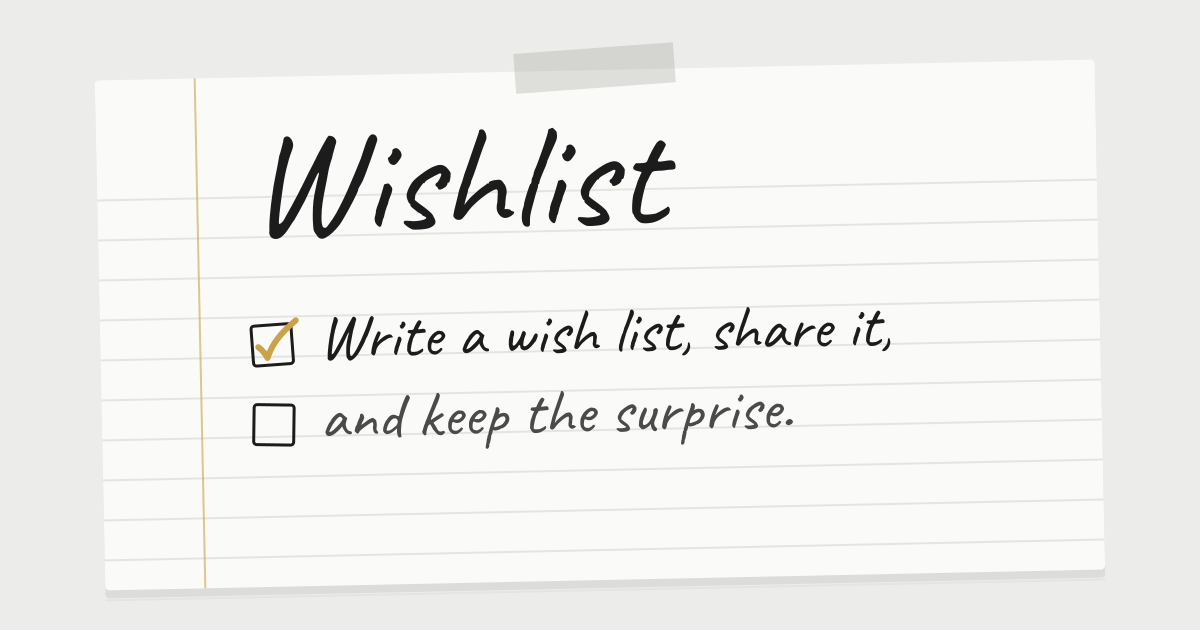
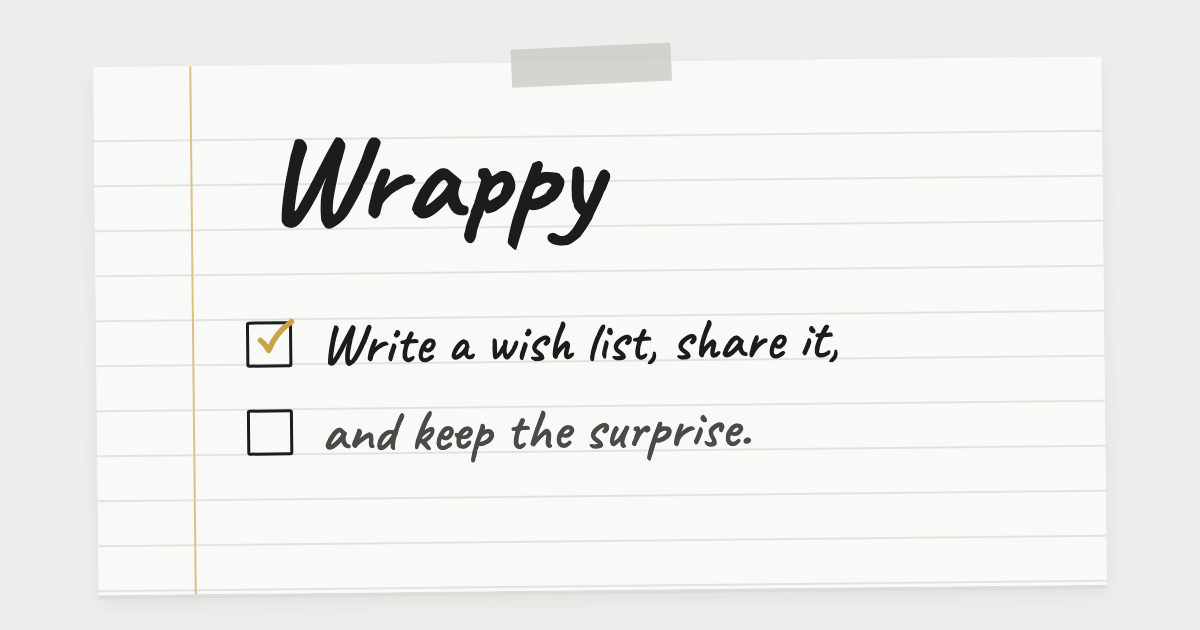
Rename the project to Wrappy (wrappy.gift)
Replace the Wishlist name across the app, emails, page titles, logo,
share image, design handoff and dev config, and point docs at
wrappy.gift. Generic uses of "wishlist" are left as they were, and
the username "wishlist" stays reserved alongside "wrappy".

diff --git a/src/lib/server/email.test.ts b/src/lib/server/email.test.ts
@@ -36,7 +36,7 @@ const resendBody = () => JSON.parse(fetchMock.mock.calls[0][1].body);
 
 describe('Resend delivery', () => {
 	it('posts to the Resend API with the key and sender', async () => {
-		const m = await load({ RESEND_API_KEY: 're_test', EMAIL_FROM: 'Wishlist <hi@example.test>', SMTP_HOST: 'smtp.example' });
+		const m = await load({ RESEND_API_KEY: 're_test', EMAIL_FROM: 'Wrappy <hi@example.test>', SMTP_HOST: 'smtp.example' });
 		await m.sendOtpEmail({ email: 'a@example.test', otp: '123456', type: 'sign-in' });
 		expect(fetchMock).toHaveBeenCalledTimes(1);
 		const [url, init] = fetchMock.mock.calls[0];
@@ -44,7 +44,7 @@ describe('Resend delivery', () => {
 		expect(init.method).toBe('POST');
 		expect(init.headers).toMatchObject({ authorization: 'Bearer re_test', 'content-type': 'application/json' });
 		const body = resendBody();
-		expect(body).toMatchObject({ from: 'Wishlist <hi@example.test>', to: ['a@example.test'], subject: 'Your Wishlist sign-in code' });
+		expect(body).toMatchObject({ from: 'Wrappy <hi@example.test>', to: ['a@example.test'], subject: 'Your Wrappy sign-in code' });
 		expect(body.html).toContain('123456');
 		expect(body.text).toContain('Your code is 123456');
 		// Resend wins over SMTP.
@@ -54,7 +54,7 @@ describe('Resend delivery', () => {
 	it('uses a default sender when EMAIL_FROM is unset', async () => {
 		const m = await load({ RESEND_API_KEY: 're_test' });
 		await m.sendOtpEmail({ email: 'a@example.test', otp: '1', type: 'sign-in' });
-		expect(resendBody().from).toBe('Wishlist <no-reply@wishlist.local>');
+		expect(resendBody().from).toBe('Wrappy <no-reply@wrappy.gift>');
 	});
 
 	it('throws with the status and body when Resend refuses', async () => {
@@ -72,7 +72,7 @@ describe('SMTP delivery', () => {
 		await m.sendOtpEmail({ email: 'b@example.test', otp: '654321', type: 'email-verification' });
 		expect(createTransport).toHaveBeenCalledWith({ host: 'smtp.example', port: 2525, secure: true, auth: { user: 'u', pass: 'p' } });
 		expect(sendMail).toHaveBeenCalledWith(
-			expect.objectContaining({ to: 'b@example.test', subject: 'Verify your email for Wishlist', from: 'Wishlist <no-reply@wishlist.local>' })
+			expect.objectContaining({ to: 'b@example.test', subject: 'Verify your email for Wrappy', from: 'Wrappy <no-reply@wrappy.gift>' })
 		);
 		expect(fetchMock).not.toHaveBeenCalled();
 	});
@@ -108,7 +108,7 @@ describe('console fallback', () => {
 		const out = log.mock.calls.flat().join('\n');
 		expect(out).toContain('c@example.test');
 		expect(out).toContain('999000');
-		expect(out).toContain('Your Wishlist sign-in code');
+		expect(out).toContain('Your Wrappy sign-in code');
 	});
 });
 
@@ -120,10 +120,10 @@ describe('message content', () => {
 	}
 
 	it.each([
-		['sign-in', 'Your Wishlist sign-in code', 'Use this code to sign in to Wishlist.'],
-		['email-verification', 'Verify your email for Wishlist', 'Use this code to verify your email address.'],
-		['forget-password', 'Reset your Wishlist password', 'Use this code to reset your password.'],
-		['change-email', 'Confirm your new Wishlist email', 'Use this code to confirm your new email address.']
+		['sign-in', 'Your Wrappy sign-in code', 'Use this code to sign in to Wrappy.'],
+		['email-verification', 'Verify your email for Wrappy', 'Use this code to verify your email address.'],
+		['forget-password', 'Reset your Wrappy password', 'Use this code to reset your password.'],
+		['change-email', 'Confirm your new Wrappy email', 'Use this code to confirm your new email address.']
 	] as const)('OTP %s has the right subject and intro', async (type, subject, intro) => {
 		const b = await capture((m) => m.sendOtpEmail({ email: 'a@example.test', otp: '112233', type }));
 		expect(b.subject).toBe(subject);
@@ -138,17 +138,17 @@ describe('message content', () => {
 				email: 'friend@example.test',
 				ownerName: '<script>alert(1)</script>',
 				listTitle: `Tom & Jerry's "best"`,
-				url: 'https://wishlist.example/lists/abc?x=1&y="2"'
+				url: 'https://wrappy.example/lists/abc?x=1&y="2"'
 			})
 		);
 		expect(b.subject).toBe('<script>alert(1)</script> shared a wish list with you');
 		expect(b.html).not.toContain('<script>');
 		expect(b.html).toContain('&lt;script&gt;alert(1)&lt;/script&gt;');
 		expect(b.html).toContain('Tom &amp; Jerry&#39;s &quot;best&quot;');
-		expect(b.html).toContain('href="https://wishlist.example/lists/abc?x=1&amp;y=&quot;2&quot;"');
+		expect(b.html).toContain('href="https://wrappy.example/lists/abc?x=1&amp;y=&quot;2&quot;"');
 		// Plain text is not HTML-escaped.
 		expect(b.text).toContain(`"Tom & Jerry's "best""`);
-		expect(b.text).toContain('Open it: https://wishlist.example/lists/abc');
+		expect(b.text).toContain('Open it: https://wrappy.example/lists/abc');
 	});
 
 	it('escapes Secret Santa names and includes budget and date', async () => {
@@ -159,7 +159,7 @@ describe('message content', () => {
 				recipientName: 'Ann & Bob',
 				budget: '£20',
 				exchangeDate: '20 Dec',
-				url: 'https://wishlist.example/santa/x'
+				url: 'https://wrappy.example/santa/x'
 			})
 		);
 		expect(b.subject).toBe("Office <Party>: you're buying for Ann & Bob");
@@ -168,7 +168,7 @@ describe('message content', () => {
 		expect(b.html).not.toContain('<Party>');
 		expect(b.html).toContain('Budget £20 · swap on 20 Dec');
 		expect(b.text).toContain("You're buying for Ann & Bob.\nBudget £20 · swap on 20 Dec");
-		expect(b.text).toContain('See their list: https://wishlist.example/santa/x');
+		expect(b.text).toContain('See their list: https://wrappy.example/santa/x');
 	});
 
 	it('leaves out the budget line when there is no budget or date', async () => {
@@ -179,12 +179,12 @@ describe('message content', () => {
 				recipientName: 'Sam',
 				budget: null,
 				exchangeDate: null,
-				url: 'https://wishlist.example/santa/x'
+				url: 'https://wrappy.example/santa/x'
 			})
 		);
 		expect(b.html).not.toContain('Budget');
 		expect(b.html).not.toContain('swap on');
-		expect(b.text).toBe("Names have been drawn for Family.\n\nYou're buying for Sam.\n\nSee their list: https://wishlist.example/santa/x");
+		expect(b.text).toBe("Names have been drawn for Family.\n\nYou're buying for Sam.\n\nSee their list: https://wrappy.example/santa/x");
 	});
 
 	it('shows only the date when there is no budget', async () => {

diff --git a/src/lib/server/email.ts b/src/lib/server/email.ts
@@ -1,5 +1,5 @@
 /**
- * Email delivery for Wishlist.
+ * Email delivery for Wrappy.
  *
  * Delivery is chosen at runtime, in order:
  *   1. Resend API   — when RESEND_API_KEY is set (production).
@@ -16,21 +16,21 @@ interface OtpEmail {
 }
 
 const SUBJECTS: Record<OtpType, string> = {
-	'sign-in': 'Your Wishlist sign-in code',
-	'email-verification': 'Verify your email for Wishlist',
-	'forget-password': 'Reset your Wishlist password',
-	'change-email': 'Confirm your new Wishlist email'
+	'sign-in': 'Your Wrappy sign-in code',
+	'email-verification': 'Verify your email for Wrappy',
+	'forget-password': 'Reset your Wrappy password',
+	'change-email': 'Confirm your new Wrappy email'
 };
 
 const INTRO: Record<OtpType, string> = {
-	'sign-in': 'Use this code to sign in to Wishlist.',
+	'sign-in': 'Use this code to sign in to Wrappy.',
 	'email-verification': 'Use this code to verify your email address.',
 	'forget-password': 'Use this code to reset your password.',
 	'change-email': 'Use this code to confirm your new email address.'
 };
 
 export async function sendOtpEmail({ email, otp, type }: OtpEmail): Promise<void> {
-	const subject = SUBJECTS[type] ?? 'Your Wishlist code';
+	const subject = SUBJECTS[type] ?? 'Your Wrappy code';
 	const html = renderOtpHtml(otp, INTRO[type] ?? INTRO['sign-in']);
 	const text = `${INTRO[type] ?? ''}\n\nYour code is ${otp}\nIt expires in 10 minutes.\n\nIf you didn't request this, you can ignore this email.`;
 
@@ -95,7 +95,7 @@ interface ReminderBase {
 }
 
 function reminderFootnote(r: ReminderBase): string {
-	return `You're getting this because you use Wishlist. <a href="${escapeHtml(r.unsubscribeUrl)}" style="color:#5E5E5A;">Stop these reminders</a> or <a href="${escapeHtml(r.settingsUrl)}" style="color:#5E5E5A;">choose which emails you get</a>.`;
+	return `You're getting this because you use Wrappy. <a href="${escapeHtml(r.unsubscribeUrl)}" style="color:#5E5E5A;">Stop these reminders</a> or <a href="${escapeHtml(r.settingsUrl)}" style="color:#5E5E5A;">choose which emails you get</a>.`;
 }
 const reminderTextFooter = (r: ReminderBase) => `\n\n—\nStop these reminders: ${r.unsubscribeUrl}\nChoose which emails you get: ${r.settingsUrl}`;
 
@@ -162,7 +162,7 @@ export async function sendSantaReminderEmail(
 }
 
 async function deliver(msg: Omit<Message, 'from'>, consoleBody: string): Promise<void> {
-	const from = process.env.EMAIL_FROM || 'Wishlist <no-reply@wishlist.local>';
+	const from = process.env.EMAIL_FROM || 'Wrappy <no-reply@wrappy.gift>';
 	const full: Message = { from, ...msg };
 	if (process.env.RESEND_API_KEY) {
 		await sendViaResend(full);
@@ -257,7 +257,7 @@ function renderLayout(bodyHtml: string, actionHtml = "", footnote = ""): string 
 			<tr><td align="center">
 				<table role="presentation" width="100%" cellpadding="0" cellspacing="0" style="max-width:460px;background:#FAFAF8;border-radius:4px;border-left:2px solid #C9A24A;box-shadow:0 1px 2px rgba(0,0,0,.08),0 10px 24px rgba(0,0,0,.07);">
 					<tr><td style="padding:30px 32px 6px;">
-						<span style="font-family:Caveat,'Comic Sans MS',cursive;font-size:30px;font-weight:700;color:#1C1C1C;"><span style="color:#C9A24A;">&#10003;</span> wishlist</span>
+						<span style="font-family:Caveat,'Comic Sans MS',cursive;font-size:30px;font-weight:700;color:#1C1C1C;"><span style="color:#C9A24A;">&#10003;</span> wrappy</span>
 					</td></tr>
 					<tr><td style="padding:12px 32px 4px;font-size:15px;color:#4A4A4A;line-height:1.55;">${bodyHtml}</td></tr>
 					${actionHtml ? `<tr><td style="padding:20px 32px 8px;">${actionHtml}</td></tr>` : ""}

diff --git a/design/pages/landing.html b/design/pages/landing.html
@@ -3,7 +3,7 @@
 <head>
 <meta charset="utf-8">
 <meta name="viewport" content="width=device-width, initial-scale=1">
-<title>Wishful — landing page</title>
+<title>Wrappy — landing page</title>
 <link href="https://fonts.googleapis.com/css2?family=Caveat:wght@500;700&amp;family=Patrick+Hand&amp;family=Inter:wght@400;500;600&amp;display=swap" rel="stylesheet">
 <style>
 /* Notebook theme tokens — see DESIGN.md */
@@ -22,7 +22,7 @@ body{margin:0}a{color:inherit}
   <header style="max-width: 1200px; margin: 0 auto; padding: 24px 24px; display: flex; flex-wrap: wrap; align-items: center; justify-content: space-between; gap: 16px">
     <a href="landing.html" style="display: flex; align-items: center; gap: 8px; text-decoration: none; color: var(--ink)">
       <svg width="26" height="26" viewBox="0 0 24 24" fill="none" stroke="var(--gold)" stroke-width="2.6" stroke-linecap="round" stroke-linejoin="round" aria-hidden="true"><path d="M4 13c2 1.5 3.5 3.5 4.5 5.5C11 12 15 7 21 3"></path></svg>
-      <span style="font-family: 'Caveat', cursive; font-size: 34px; font-weight: 700; line-height: 1">wishful</span>
+      <span style="font-family: 'Caveat', cursive; font-size: 34px; font-weight: 700; line-height: 1">wrappy</span>
     </a>
     <nav style="display: flex; flex-wrap: wrap; align-items: center; gap: 8px 28px; font-size: 15px">
       <a href="#how" style="text-decoration: none; color: var(--ink2)">How it works</a>
@@ -158,7 +158,7 @@ body{margin:0}a{color:inherit}
 
   <footer style="border-top: 1px solid var(--line)">
     <div style="max-width: 1200px; margin: 0 auto; padding: 28px 24px; display: flex; flex-wrap: wrap; align-items: center; justify-content: space-between; gap: 16px; font-size: 14px; color: var(--muted)">
-      <span style="font-family: 'Caveat', cursive; font-size: 26px; font-weight: 700; color: var(--ink)">wishful</span>
+      <span style="font-family: 'Caveat', cursive; font-size: 26px; font-weight: 700; color: var(--ink)">wrappy</span>
       <div style="display: flex; flex-wrap: wrap; gap: 24px"><a href="#" style="color: var(--muted); text-decoration: none">Privacy</a><a href="#" style="color: var(--muted); text-decoration: none">Terms</a><a href="#" style="color: var(--muted); text-decoration: none">Help</a></div>
     </div>
   </footer>

diff --git a/design/pages/login.html b/design/pages/login.html
@@ -3,7 +3,7 @@
 <head>
 <meta charset="utf-8">
 <meta name="viewport" content="width=device-width, initial-scale=1">
-<title>Wishful — log in</title>
+<title>Wrappy — log in</title>
 <link href="https://fonts.googleapis.com/css2?family=Caveat:wght@500;700&amp;family=Patrick+Hand&amp;family=Inter:wght@400;500;600&amp;display=swap" rel="stylesheet">
 <style>
 /* Notebook theme tokens — see DESIGN.md */
@@ -21,7 +21,7 @@ body{margin:0}a{color:inherit}input::placeholder{color:#8A8A86}
   <header style="width: 100%; max-width: 1200px; margin: 0 auto; padding: 24px; box-sizing: border-box; display: flex; align-items: center; justify-content: space-between; gap: 16px">
     <a href="landing.html" style="display: flex; align-items: center; gap: 8px; text-decoration: none; color: var(--ink)">
       <svg width="26" height="26" viewBox="0 0 24 24" fill="none" stroke="var(--gold)" stroke-width="2.6" stroke-linecap="round" stroke-linejoin="round" aria-hidden="true"><path d="M4 13c2 1.5 3.5 3.5 4.5 5.5C11 12 15 7 21 3"></path></svg>
-      <span style="font-family: 'Caveat', cursive; font-size: 34px; font-weight: 700; line-height: 1">wishful</span>
+      <span style="font-family: 'Caveat', cursive; font-size: 34px; font-weight: 700; line-height: 1">wrappy</span>
     </a>
     <p style="margin: 0; font-size: 15px; color: var(--ink2)">New here? <a href="#" style="color: var(--ink); font-weight: 600; text-underline-offset: 3px">Create an account</a></p>
   </header>

diff --git a/design/pages/list.html b/design/pages/list.html
@@ -3,7 +3,7 @@
 <head>
 <meta charset="utf-8">
 <meta name="viewport" content="width=device-width, initial-scale=1">
-<title>Wishful — 30th birthday list</title>
+<title>Wrappy — 30th birthday list</title>
 <link href="https://fonts.googleapis.com/css2?family=Caveat:wght@500;700&amp;family=Patrick+Hand&amp;family=Inter:wght@400;500;600&amp;display=swap" rel="stylesheet">
 <style>
 /* Notebook theme tokens — see DESIGN.md */
@@ -25,7 +25,7 @@ body{margin:0}a{color:inherit}input::placeholder{color:#8A8A86}
       <div style="display: flex; flex-wrap: wrap; align-items: center; gap: 12px 36px">
         <a href="home.html" style="display: flex; align-items: center; gap: 8px; text-decoration: none; color: var(--ink)">
           <svg width="24" height="24" viewBox="0 0 24 24" fill="none" stroke="var(--gold)" stroke-width="2.6" stroke-linecap="round" stroke-linejoin="round" aria-hidden="true"><path d="M4 13c2 1.5 3.5 3.5 4.5 5.5C11 12 15 7 21 3"></path></svg>
-          <span style="font-family: 'Caveat', cursive; font-size: 32px; font-weight: 700; line-height: 1">wishful</span>
+          <span style="font-family: 'Caveat', cursive; font-size: 32px; font-weight: 700; line-height: 1">wrappy</span>
         </a>
         <nav style="display: flex; gap: 4px; font-size: 15px">
           <a href="home.html" style="padding: 10px 14px; border-radius: 999px; background: var(--desk); text-decoration: none; font-weight: 600; color: var(--ink)">My lists</a>

diff --git a/design/pages/home.html b/design/pages/home.html
@@ -3,7 +3,7 @@
 <head>
 <meta charset="utf-8">
 <meta name="viewport" content="width=device-width, initial-scale=1">
-<title>Wishful — home</title>
+<title>Wrappy — home</title>
 <link href="https://fonts.googleapis.com/css2?family=Caveat:wght@500;700&amp;family=Patrick+Hand&amp;family=Inter:wght@400;500;600&amp;display=swap" rel="stylesheet">
 <style>
 /* Notebook theme tokens — see DESIGN.md */
@@ -23,7 +23,7 @@ body{margin:0}a{color:inherit}
       <div style="display: flex; flex-wrap: wrap; align-items: center; gap: 12px 36px">
         <a href="home.html" style="display: flex; align-items: center; gap: 8px; text-decoration: none; color: var(--ink)">
           <svg width="24" height="24" viewBox="0 0 24 24" fill="none" stroke="var(--gold)" stroke-width="2.6" stroke-linecap="round" stroke-linejoin="round" aria-hidden="true"><path d="M4 13c2 1.5 3.5 3.5 4.5 5.5C11 12 15 7 21 3"></path></svg>
-          <span style="font-family: 'Caveat', cursive; font-size: 32px; font-weight: 700; line-height: 1">wishful</span>
+          <span style="font-family: 'Caveat', cursive; font-size: 32px; font-weight: 700; line-height: 1">wrappy</span>
         </a>
         <nav style="display: flex; gap: 4px; font-size: 15px">
           <a href="home.html" style="padding: 10px 14px; border-radius: 999px; background: var(--desk); text-decoration: none; font-weight: 600; color: var(--ink)">My lists</a>

diff --git a/design/pages/invite.html b/design/pages/invite.html
@@ -3,7 +3,7 @@
 <head>
 <meta charset="utf-8">
 <meta name="viewport" content="width=device-width, initial-scale=1">
-<title>Wishful — Secret Santa invitation</title>
+<title>Wrappy — Secret Santa invitation</title>
 <link href="https://fonts.googleapis.com/css2?family=Caveat:wght@500;700&amp;family=Patrick+Hand&amp;family=Inter:wght@400;500;600&amp;display=swap" rel="stylesheet">
 <style>
 /* Notebook theme tokens — see DESIGN.md */
@@ -23,7 +23,7 @@ body{margin:0}a{color:inherit}
   <header style="max-width: 1200px; margin: 0 auto; padding: 24px; display: flex; align-items: center; justify-content: space-between; gap: 16px">
     <a href="home.html" style="display: flex; align-items: center; gap: 8px; text-decoration: none; color: var(--ink)">
       <svg width="26" height="26" viewBox="0 0 24 24" fill="none" stroke="var(--gold)" stroke-width="2.6" stroke-linecap="round" stroke-linejoin="round" aria-hidden="true"><path d="M4 13c2 1.5 3.5 3.5 4.5 5.5C11 12 15 7 21 3"></path></svg>
-      <span style="font-family: 'Caveat', cursive; font-size: 34px; font-weight: 700; line-height: 1">wishful</span>
+      <span style="font-family: 'Caveat', cursive; font-size: 34px; font-weight: 700; line-height: 1">wrappy</span>
     </a>
     <a href="home.html" style="font-size: 15px; color: var(--ink2); text-decoration: none">Back to my lists</a>
   </header>

diff --git a/design/index.html b/design/index.html
@@ -3,7 +3,7 @@
 <head>
 <meta charset="utf-8">
 <meta name="viewport" content="width=device-width, initial-scale=1">
-<title>Wishful — design handoff</title>
+<title>Wrappy — design handoff</title>
 <link href="https://fonts.googleapis.com/css2?family=Caveat:wght@700&amp;family=Inter:wght@400;600&amp;display=swap" rel="stylesheet">
 <style>
 :root { --desk:#ECECEA; --paper:#FAFAF8; --ink:#1C1C1C; --ink2:#4A4A4A; --gold:#C9A24A; --rule:#E4E4E0; color-scheme: light; }
@@ -20,7 +20,7 @@ a { color: var(--ink); }
 </head>
 <body>
 <main>
-  <h1>Wishful — key screens</h1>
+  <h1>Wrappy — key screens</h1>
   <p>Notebook style. Read DESIGN.md for the full spec.</p>
   <div class="row"><span>Landing</span><span><a href="pages/landing.html?theme=light">Light</a> · <a href="pages/landing.html?theme=dark">Dark</a></span></div>
   <div class="row"><span>Log in</span><span><a href="pages/login.html?theme=light">Light</a> · <a href="pages/login.html?theme=dark">Dark</a></span></div>

diff --git a/src/routes/+layout.svelte b/src/routes/+layout.svelte
@@ -25,8 +25,8 @@
 </script>
 
 <svelte:head>
-	<title>Wishlist</title>
-	<meta property="og:site_name" content="Wishlist" />
+	<title>Wrappy</title>
+	<meta property="og:site_name" content="Wrappy" />
 	<meta property="og:type" content="website" />
 	<meta property="og:title" content={meta.title} />
 	<meta property="og:description" content={meta.description} />
@@ -34,7 +34,7 @@
 	<meta property="og:image" content={image} />
 	<meta property="og:image:width" content="1200" />
 	<meta property="og:image:height" content="630" />
-	<meta property="og:image:alt" content="A page of lined notebook paper reading: Wishlist. Write a wish list, share it, and keep the surprise." />
+	<meta property="og:image:alt" content="A page of lined notebook paper reading: Wrappy. Write a wish list, share it, and keep the surprise." />
 	<meta name="twitter:card" content="summary_large_image" />
 </svelte:head>
 

diff --git a/src/routes/(app)/gifts/[giverId]/+page.svelte b/src/routes/(app)/gifts/[giverId]/+page.svelte
@@ -15,7 +15,7 @@
 	let editing = $state(false);
 </script>
 
-<svelte:head><title>From {data.person.name} — Wishlist</title></svelte:head>
+<svelte:head><title>From {data.person.name} — Wrappy</title></svelte:head>
 
 <main class="container page">
 	<a href="/gifts" class="back"><Icon name="arrow-left" size={16} strokeWidth={2} />Presents received</a>
@@ -24,7 +24,7 @@
 		<Avatar name={data.person.name} size={64} onDesk />
 		<div>
 			<h1 class="hand">From {data.person.name}</h1>
-			<p class="meta">{plural(total, 'present')}{data.person.isContact ? ' · not on Wishlist' : ''}</p>
+			<p class="meta">{plural(total, 'present')}{data.person.isContact ? ' · not on Wrappy' : ''}</p>
 		</div>
 		{#if total}<ThankedToggle personId={data.person.id} name={data.person.name} thanked={data.thanked} />{/if}
 	</div>

diff --git a/src/lib/server/db/index.ts b/src/lib/server/db/index.ts
@@ -9,10 +9,10 @@ if (!connectionString) {
 }
 
 // Reuse a single pool across HMR reloads in dev.
-const globalForDb = globalThis as unknown as { __wishlistPool?: mysql.Pool };
+const globalForDb = globalThis as unknown as { __wrappyPool?: mysql.Pool };
 
 const pool =
-	globalForDb.__wishlistPool ??
+	globalForDb.__wrappyPool ??
 	mysql.createPool({
 		uri: connectionString,
 		// Per app instance: keep instances × DB_POOL_SIZE under the database's max_connections.
@@ -23,7 +23,7 @@ const pool =
 		dateStrings: false
 	});
 
-if (process.env.NODE_ENV !== 'production') globalForDb.__wishlistPool = pool;
+if (process.env.NODE_ENV !== 'production') globalForDb.__wrappyPool = pool;
 
 export const db = drizzle(pool, { schema, mode: 'default' });
 export type DB = typeof db;

diff --git a/scripts/migrate.js b/scripts/migrate.js
@@ -11,7 +11,7 @@ if (!url) throw new Error('DATABASE_URL is not set');
 const connection = await mysql.createConnection({ uri: url, multipleStatements: true });
 // Several app instances may start at once; a named lock makes them migrate one at a time
 // (the rest wait, then find nothing left to apply). Released automatically if this connection drops.
-const LOCK = 'wishlist_migrations';
+const LOCK = 'wrappy_migrations';
 try {
 	const [[{ got }]] = await connection.query('SELECT GET_LOCK(?, 300) AS got', [LOCK]);
 	if (got !== 1) throw new Error('Timed out waiting for another instance to finish migrating');
